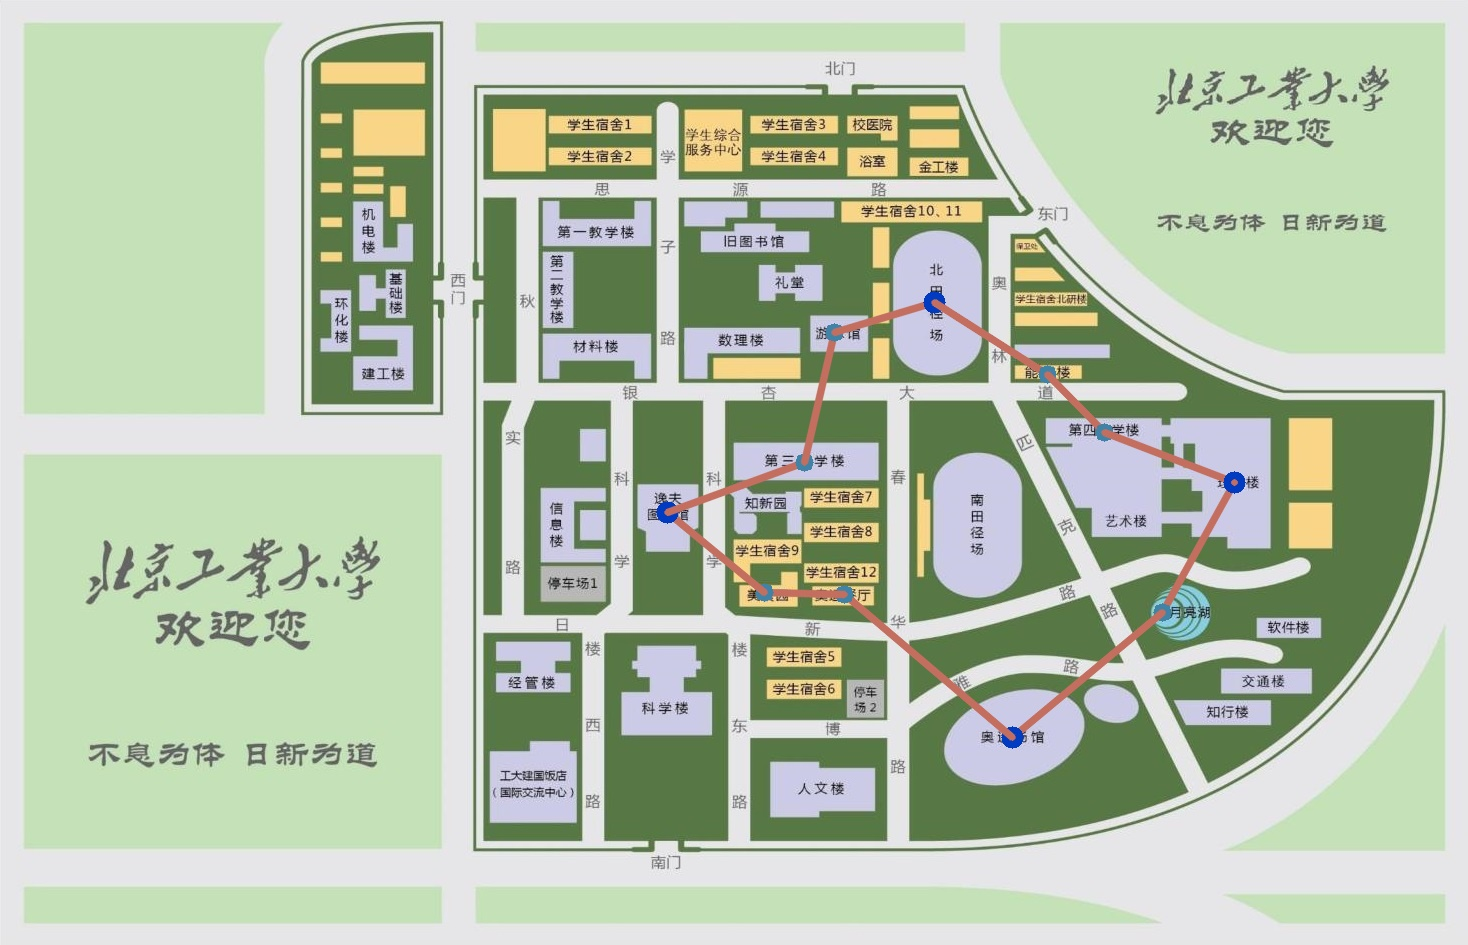
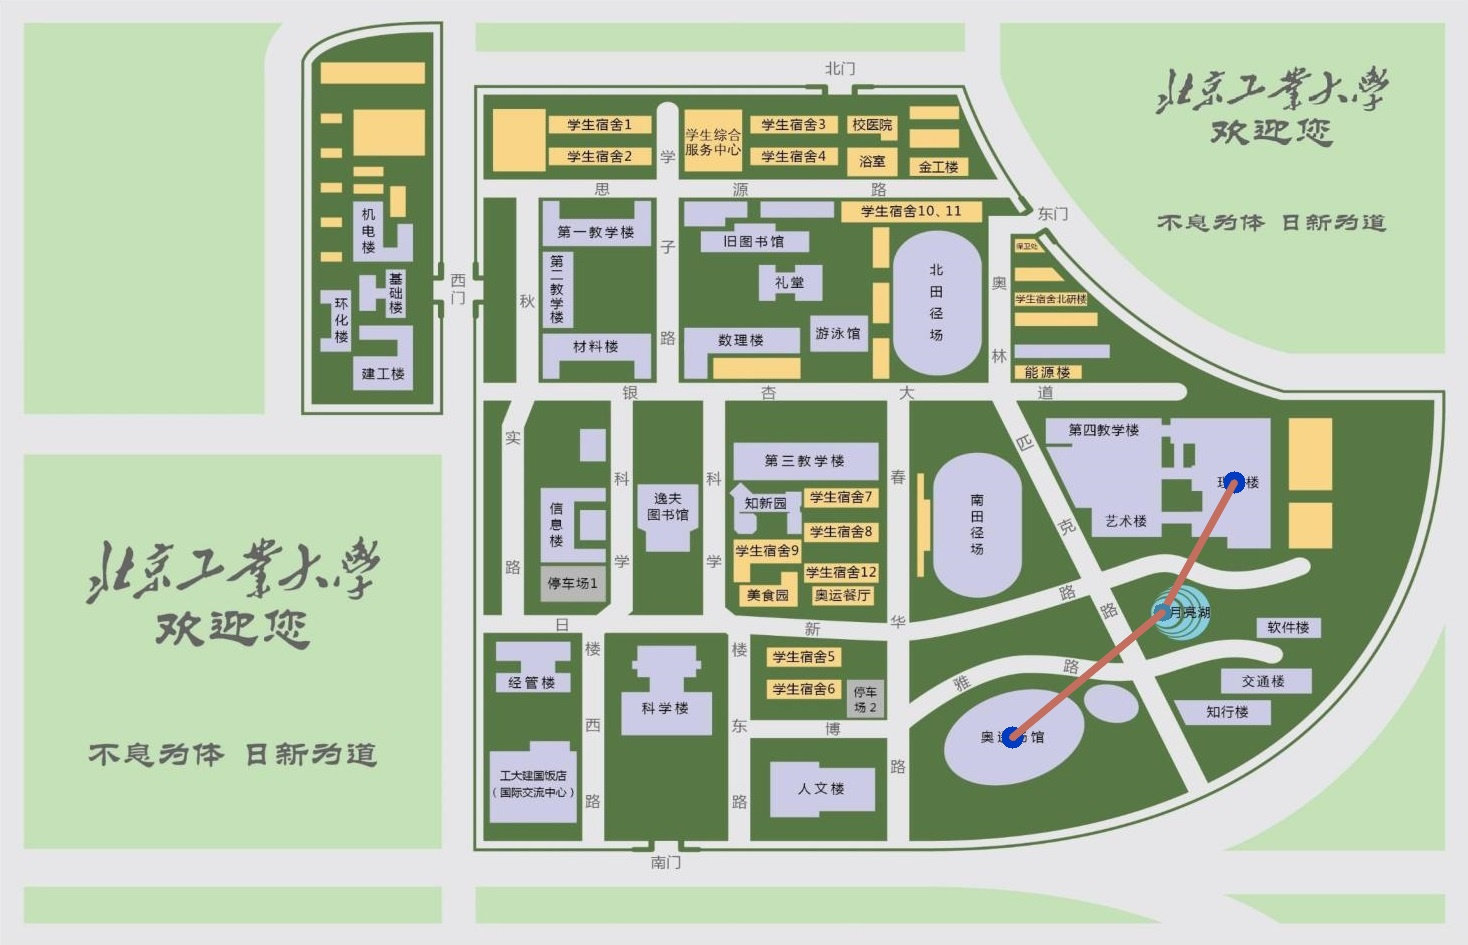
实现Bubble中显示预计到达时间且适配优化路线

diff --git a/code/widget.py b/code/widget.py
@@ -156,7 +156,7 @@ class MainWindow(QWidget):
         self.GetBack.clicked.connect(self.GetBackStep)
         self.horizontalLayout.addWidget(self.GetBack)
 
-        #TODO 获取路线的按钮
+        #TODO 开始按钮
         self.ChangeRoad = QPushButton(self)
         self.ChangeRoad.setGeometry(QRect(100, 170, 95, 50))
         self.ChangeRoad.setStyleSheet("background:rgb(197, 225, 184)")
@@ -172,6 +172,7 @@ class MainWindow(QWidget):
         self.Start.setGeometry(QRect(100,310,95,50))
         self.Start.setStyleSheet("background:rgb(197, 225, 184)")
         self.Start.setObjectName("Start")
+        self.Start.clicked.connect(self.Go)
 
         # 清除全部选择
         self.clearall = QPushButton(self.layoutWidget)
@@ -547,7 +548,7 @@ class MainWindow(QWidget):
         self.TSP_button.setText(_translate("Widget", "TSP"))
         self.TSPwr_button.setText(_translate("Widget", "TSP without return"))
         self.by_order_button.setText(_translate("Widget", "by order"))
-        #TODO 控件命名
+
         self.GetBetterRoad.setText(_translate("Widget","简化路线"))
         self.Start.setText(_translate("Widget","出发"))
         self.ChangeRoad.setText(_translate("Widget","换条路线"))
@@ -600,34 +601,33 @@ class MainWindow(QWidget):
         self.A46.setToolTip(_translate("Widget", "北门"))
 
     def get_TSP(self):
-        print("选择的序列:", self.selected_pos)
         if self.TSP_button.isChecked():
             if len(self.selected_pos) == 0 or len(self.selected_pos) == 1:
                 QMessageBox.warning(self, '警告', '请选择至少两个目的地')
                 return
             self.GetRoad.setEnabled(False)
+            self.GetBack.setEnabled(False)
             if self.AlgorithmModel == 0:
                 if len(self.selected_pos) >= 8:
                     t = TSP_GA(self.selected_pos)
                     self.simple_road, self.entire_road, self.min_distance = t.run(20)
                 else:
-                    self.simple_road, self.entire_road, self.min_distance = self.tsp_backtrack.tsp(self.selected_pos)
+                    self.simple_road, self.entire_road, self.min_distance, self.signle_distance = self.tsp_backtrack.tsp(self.selected_pos)
                     self.tsp_backtrack.ClearAll()
+
             elif self.AlgorithmModel == 1:
                 t = TSP_GA(self.selected_pos)
                 self.simple_road, self.entire_road, self.min_distance = t.run(10)
 
             elif self.AlgorithmModel == 2:
                 t = TSP_BackTrack()
-                self.simple_road, self.entire_road, self.min_distance = self.tsp_backtrack.tsp(self.selected_pos)
+                self.simple_road, self.entire_road, self.min_distance, self.signle_distance = self.tsp_backtrack.tsp(self.selected_pos)
                 t.ClearAll()
 
             simple_citys = []
             for i in self.simple_road:
                 exec("text = self.A{}.toolTip()".format(i))
                 exec("simple_citys.append(text)")
-
-            print(simple_citys)
 
             entire_citys = []
             for i in self.entire_road:
@@ -648,9 +648,9 @@ class MainWindow(QWidget):
                 self.Main_text +=i
                 self.Main_text += '\n'
 
-
             self.MainText.setText(self.Main_text)
             d = DrawRoad(self.AddofFigure)
+
             d.DrawImage(self.entire_road, self.simple_road)
             self.schoolmap.setPixmap(QPixmap("../images/school_map_change.jpg"))
         elif self.TSPwr_button.isChecked():
@@ -658,8 +658,6 @@ class MainWindow(QWidget):
         elif self.by_order_button.isChecked():
             order = ByOrder(self.selected_pos)
             self.simple_road, self.entire_road, self.min_distance = order.GetRoad()
-            print(self.simple_road)
-            print(self.entire_road)
             self.Main_text = str(self.simple_road) + '\n' + str(self.entire_road)
             self.MainText.setText(self.Main_text)
             d.DrawImage_order(self.entire_road, self.simple_road)
@@ -671,6 +669,7 @@ class MainWindow(QWidget):
         t = TipUi('结果已保存', desktop.width() / 2, desktop.height() / 2)
         t.show()
         self.DrawBubble()
+
 
     def showTime(self):
         Time = QDateTime.currentDateTime()  # 系统时间
@@ -704,7 +703,6 @@ class MainWindow(QWidget):
         name = btn.objectName()
         real_name = btn.toolTip()
         num = int(name[1:])
-        print(name, num)
         if num in self.selected_pos:
             self.selected_pos.remove(num)
             string = '已删除:' + real_name
@@ -832,23 +830,26 @@ class MainWindow(QWidget):
 
         self.BubbleOpacity = int(text[5])/100
 
-    def GetBackStep(self):#TODO
+    def GetBackStep(self):
         self.Main_text += "已删除："
         exec(f"text = self.A{self.selected_pos[-1]}.toolTip()\n")
         exec("self.Main_text += text")
         self.MainText.setText(self.Main_text)
         self.selected_pos.pop()
 
+    #TODO 绘制气泡
     def DrawBubble(self):
         self.Bubble_pos = []
-        for item in self.selected_pos:
-            exec("self.B{} = UI_Bubble({},{})".format(item,item,self.BubbleOpacity))
-            exec("self.B{}.setWindowOpacity({})".format(item,self.BubbleOpacity))
-            exec("self.B{}.show()".format(item))
+
+        for i,item in enumerate(self.simple_road):
+            exec(f"name = self.A{item}.toolTip()")
+            exec(f"self.B{item} = UI_Bubble(item,self.BubbleOpacity,name,self.signle_distance[i])")
+            exec(f"self.B{item}.setWindowOpacity(self.BubbleOpacity)")
+            exec(f"self.B{item}.show()")
             exec(f"self.Bubble_pos.append([self.B{item}.pos().x(),self.B{item}.pos().y()])")
-        print(self.Bubble_pos)
 
         exec("self.B{}.exec_()".format(self.selected_pos[0]))
+
 
     def closeEvent(self, a0: QtGui.QCloseEvent) -> None:
         if self.GetRoad.isEnabled() == False:
@@ -874,9 +875,8 @@ class MainWindow(QWidget):
             for i,item in enumerate(self.selected_pos):
                 exec(f"self.B{item}.move(self.Bubble_pos[{i}][0] + self.pos().x(),self.Bubble_pos[{i}][1] + self.pos().y())")
 
-    #TODO fun
-    def BetterRoad(self):
 
+    def BetterRoad(self):
         if self.GetRoad.isEnabled():
             QMessageBox.warning(self,"警告","请先生成路径")
             return
@@ -910,14 +910,22 @@ class MainWindow(QWidget):
         self.schoolmap.setPixmap(QPixmap("../images/school_map_change.jpg"))
         exec(f"self.B{self.del_pos}.close()")
         self.selected_pos.remove(self.del_pos)
+        for item in self.selected_pos:
+            exec(f"self.B{item}.GoGoGo()")
+
+
 
     def CalculateBetter(self,item):
         pos = self.selected_pos.copy()
         pos.remove(item)
-        simple_road, entire_road, min_distance = self.tsp_backtrack.tsp(pos)
+        simple_road, entire_road, min_distance,_ = self.tsp_backtrack.tsp(pos)
         if min_distance < self.cost_best:
             self.cost_best = min_distance
             self.simple_road_best = simple_road
             self.entire_road_best = entire_road
             self.del_pos = item
         self.tsp_backtrack.ClearAll()
+
+    def Go(self):
+        for item in self.selected_pos:
+            exec(f"self.B{item}.GoGoGo()")

diff --git a/code/Bubble.py b/code/Bubble.py
@@ -1,6 +1,7 @@
 from PyQt5 import QtCore, QtGui, QtWidgets
 from PyQt5.QtWidgets import *
 from PyQt5.QtCore import *
+import numpy as np
 import sys
 
 global Bubble_Opacity
@@ -20,6 +21,8 @@ class MyDialog(QDialog):
 
 class Ui_Dialog(object):
     def setupUi(self, Dialog):
+        self.mat_floyd = []
+        self.read_mat()
         Dialog.setObjectName("Dialog")
         Dialog.resize(244, 223)
         self.label = QLabel(Dialog)
@@ -29,7 +32,7 @@ class Ui_Dialog(object):
         self.label.setScaledContents(True)
         self.label.setObjectName("label")
         self.label_2 = QtWidgets.QLabel(Dialog)
-        self.label_2.setGeometry(QtCore.QRect(80, 90, 100, 70))
+        self.label_2.setGeometry(QtCore.QRect(80, 70, 100, 80))
         self.label_2.setObjectName("label_2")
 
         self.retranslateUi(Dialog)
@@ -38,13 +41,22 @@ class Ui_Dialog(object):
     def retranslateUi(self, Dialog):
         _translate = QtCore.QCoreApplication.translate
         Dialog.setWindowTitle(_translate("Dialog", "Dialog"))
-        self.label_2.setText(
-            _translate("Dialog", "<html><head/><body><p>预计到达时间：</p><p>1h32min</p><p><br/></p></body></html>"))
+
+    def read_mat(self):
+        with open('../address/adj_floyd_mat.txt') as f:
+            entire_text = f.read()
+            for row in entire_text.split('\n'):
+                for item in row.rstrip().split(' '):
+                    self.mat_floyd.append(float(item))
+            self.mat_floyd = np.array(self.mat_floyd).reshape((47, 47))
 
 
 class UI_Bubble(MyDialog):
-    def __init__(self, i, Opacity):
+    def __init__(self, i, Opacity, city_name, distance):
         super().__init__(None)
+        print(i, Opacity, city_name)
+        self.distance = distance
+        self.city_name =city_name
         self.x = []
         self.y = []
         self.ReadAxis()
@@ -56,6 +68,15 @@ class UI_Bubble(MyDialog):
         self.setAttribute(Qt.WA_QuitOnClose, True)
         global Bubble_Opacity
         Bubble_Opacity = Opacity
+        self.ui.label_2.setText(f"""
+                                <html>
+                                <head/>
+                                    <body>
+                                        <p align=\"center\"><span style=\"font-weight:600; font-size:10pt\">{self.city_name}</span></p>
+                                        <p><br/></p>
+                                    </body>
+                                </html>"""
+                                )
 
     def ReadAxis(self):
         with open('../address/axis_x.txt') as f:
@@ -68,10 +89,30 @@ class UI_Bubble(MyDialog):
             for item in text:
                 self.y.append(int(item))
 
+    def GoGoGo(self):
+        now = QTime.currentTime()
+        second = int(self.distance / 6.66)
+        time = now.addSecs(second).toString(Qt.DefaultLocaleLongDate)
+        print("222")
+        self.ui.label_2.setText(f"""
+                                <html>
+                                <head/>
+                                    <body>
+                                        <p align=\"center\"><span style=\"font-weight:600; font-size:10pt\">{self.city_name}</span></p>
+                                        <p>预计到达时间：</p>
+                                        <p style=\"font-weight:600;\">{time}</p>
+                                        <p><br/></p>
+                                    </body>
+                                </html>"""
+                                )
+        print("333")
+
 
 if __name__ == '__main__':
     app = QApplication(sys.argv)
     desktop = QApplication.desktop()
-    t = UI_Bubble(17)
+    s = "test"
+    print(s)
+    t = UI_Bubble(17, 0.5, s)
     t.show()
     sys.exit(app.exec_())

diff --git a/code/TSP_BackTrack.py b/code/TSP_BackTrack.py
@@ -1,3 +1,5 @@
+import signal
+
 import numpy as np
 
 
@@ -71,7 +73,7 @@ class TSP_BackTrack:
             simple_road.append(item)
             # print(item, '->', end=' ')
         # print(self.pos[0])
-        simple_road.append(self.pos[0])
+        # simple_road.append(self.pos[0])
         return_simple_road.append(simple_road)
         return return_simple_road
 
@@ -95,7 +97,6 @@ class TSP_BackTrack:
         for i in self.entire_road:
             en_road.append(i)
             # print(i, '->', end=' ')
-        en_road.append(self.pos[0])
         # print(self.pos[0])
         return_entire_road.append(en_road)
         return return_entire_road
@@ -113,11 +114,24 @@ class TSP_BackTrack:
         used = np.zeros((len(self.pos),), dtype=int)
         used[0] = 1
         self.backtrack(path, self.pos[0], 0, used)
-        # print('总路程:', self.cost, 'm')
         self.simple_road = self.print_simple_path()
         self.entire_road = self.print_entire_path()
+        single_distance = []
 
-        return self.simple_road[0], self.entire_road[0], self.cost
+        sum = 0
+        for i in range(len(self.simple_road[0])):
+            if i == 0:
+                single_distance.append(self.cost)
+                continue
+
+            city1 = self.simple_road[0][i - 1]
+            city2 = self.simple_road[0][i]
+
+            dis = self.mat_floyd[city1][city2]
+            sum += dis
+            single_distance.append(sum)
+
+        return self.simple_road[0], self.entire_road[0], self.cost, single_distance
 
 
 if __name__ == '__main__':

diff --git a/code/DrawImage.py b/code/DrawImage.py
@@ -32,9 +32,10 @@ class DrawRoad:
         return x - self.x_base, y - self.y_base
 
     def DrawImage(self, entired_res, simple_res):
-        pos = entired_res
+
+        pos = entired_res.copy()
         pos.append(pos[0])
-        simple_pos = simple_res
+        simple_pos = simple_res.copy()
         simple_pos.append(simple_pos[0])
         for i in range(len(pos) - 1):
             x1, y1 = self.axis_change(self.x[pos[i]], self.y[pos[i]])

diff --git a/code/test.py b/code/test.py
@@ -1,7 +1,4 @@
-import threading
-import time
-
+from PyQt5.QtCore import *
 if __name__ == '__main__':
-    pos = [1, 2, 3, 4]
-    pos.remove(4)
-    print(pos)
+    now = QTime.currentTime()
+    print(now.addSecs(200).toString(Qt.DefaultLocaleLongDate))
